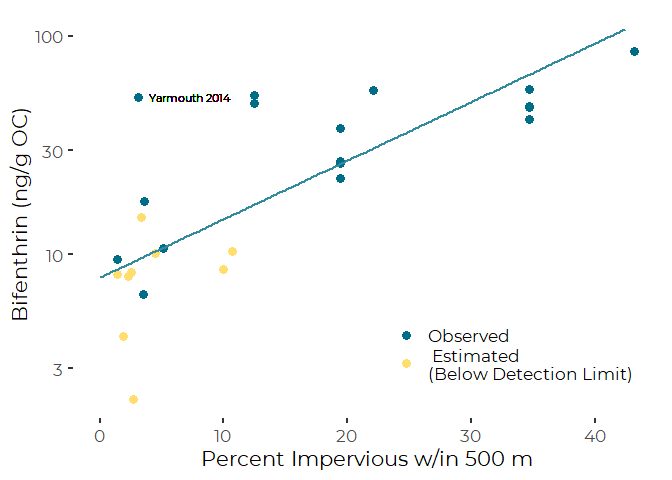
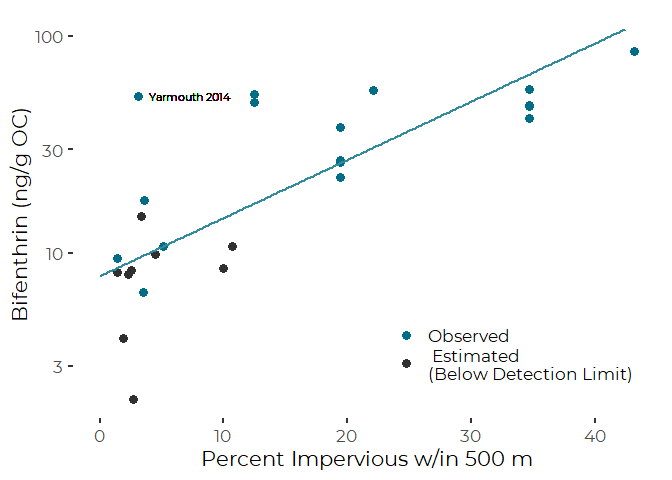
Change color of "non-detects" in graphics

diff --git a/Graphics/Pesticide_Graphics.md b/Graphics/Pesticide_Graphics.md
@@ -3,25 +3,25 @@ Prepare Sediment Bifenthrin Graphics
 Curtis C. Bohlen, Casco Bay Estuary Partnership.
 Revised October 13, 2020
 
-  - [Introduction](#introduction)
-  - [Load Libraries](#load-libraries)
-  - [Load Data](#load-data)
-      - [Folder References](#folder-references)
-      - [Load IC Data](#load-ic-data)
-      - [Load Pyrethroid Concentration
+-   [Introduction](#introduction)
+-   [Load Libraries](#load-libraries)
+-   [Load Data](#load-data)
+    -   [Folder References](#folder-references)
+    -   [Load IC Data](#load-ic-data)
+    -   [Load Pyrethroid Concentration
         Data](#load-pyrethroid-concentration-data)
-  - [Import IC metrics into
+-   [Import IC metrics into
     conc\_data](#import-ic-metrics-into-conc_data)
-  - [Principal Graphics](#principal-graphics)
-      - [Initial Graphic with Log-linear
+-   [Principal Graphics](#principal-graphics)
+    -   [Initial Graphic with Log-linear
         Model](#initial-graphic-with-log-linear-model)
-      - [Related Linear Models](#related-linear-models)
-          - [Linear Model](#linear-model)
-          - [Theil-Sen Resistent
+    -   [Related Linear Models](#related-linear-models)
+        -   [Linear Model](#linear-model)
+        -   [Theil-Sen Resistent
             Regression](#theil-sen-resistent-regression)
-          - [Showing the Resistant
+        -   [Showing the Resistant
             Regression](#showing-the-resistant-regression)
-  - [Concentrations on an Organic Carbon
+-   [Concentrations on an Organic Carbon
     Basis](#concentrations-on-an-organic-carbon-basis)
 
 <img
@@ -51,14 +51,22 @@ impervious surfaces (as a rough measure of urbanization).
 library(tidyverse)
 ```
 
-    ## -- Attaching packages ----------------------------------------------------------------------------------- tidyverse 1.3.0 --
+    ## Warning: package 'tidyverse' was built under R version 4.0.5
 
-    ## v ggplot2 3.3.2     v purrr   0.3.4
-    ## v tibble  3.0.3     v dplyr   1.0.2
-    ## v tidyr   1.1.2     v stringr 1.4.0
-    ## v readr   1.3.1     v forcats 0.5.0
+    ## -- Attaching packages --------------------------------------- tidyverse 1.3.1 --
 
-    ## -- Conflicts -------------------------------------------------------------------------------------- tidyverse_conflicts() --
+    ## v ggplot2 3.3.3     v purrr   0.3.4
+    ## v tibble  3.1.2     v dplyr   1.0.6
+    ## v tidyr   1.1.3     v stringr 1.4.0
+    ## v readr   1.4.0     v forcats 0.5.1
+
+    ## Warning: package 'tidyr' was built under R version 4.0.5
+
+    ## Warning: package 'dplyr' was built under R version 4.0.5
+
+    ## Warning: package 'forcats' was built under R version 4.0.5
+
+    ## -- Conflicts ------------------------------------------ tidyverse_conflicts() --
     ## x dplyr::filter() masks stats::filter()
     ## x dplyr::lag()    masks stats::lag()
 
@@ -173,7 +181,7 @@ ggsave('BifenthrinWW.pdf', device = cairo_pdf, width = 7, height = 5)
     ## `geom_smooth()` using formula 'y ~ x'
 
     ## Warning: Removed 4 rows containing non-finite values (stat_smooth).
-    
+
     ## Warning: Removed 4 rows containing missing values (geom_point).
 
 ## Related Linear Models
@@ -198,19 +206,19 @@ summary(the_lm)
     ## 
     ## Residuals:
     ##      Min       1Q   Median       3Q      Max 
-    ## -0.52071 -0.23908 -0.02186  0.16580  1.10061 
+    ## -0.50209 -0.24093 -0.02212  0.16717  1.10220 
     ## 
     ## Coefficients:
     ##              Estimate Std. Error t value Pr(>|t|)    
-    ## (Intercept) -1.451785   0.097796 -14.845 1.36e-13 ***
-    ## pct500       0.032052   0.005165   6.206 2.06e-06 ***
+    ## (Intercept) -1.453613   0.097844 -14.856 1.34e-13 ***
+    ## pct500       0.032130   0.005167   6.218 2.00e-06 ***
     ## ---
     ## Signif. codes:  0 '***' 0.001 '**' 0.01 '*' 0.05 '.' 0.1 ' ' 1
     ## 
-    ## Residual standard error: 0.3372 on 24 degrees of freedom
+    ## Residual standard error: 0.3374 on 24 degrees of freedom
     ##   (4 observations deleted due to missingness)
-    ## Multiple R-squared:  0.6161, Adjusted R-squared:  0.6001 
-    ## F-statistic: 38.51 on 1 and 24 DF,  p-value: 2.058e-06
+    ## Multiple R-squared:  0.617,  Adjusted R-squared:  0.601 
+    ## F-statistic: 38.66 on 1 and 24 DF,  p-value: 1.999e-06
 
 ### Theil-Sen Resistent Regression
 
@@ -252,16 +260,16 @@ summary(the_mblm)
     ## 
     ## Residuals:
     ##      Min       1Q   Median       3Q      Max 
-    ## -1.53120 -0.87485 -0.40064  0.05394  2.20897 
+    ## -1.49063 -0.88305 -0.40064  0.05394  2.20897 
     ## 
     ## Coefficients:
     ##             Estimate      MAD V value Pr(>|V|)    
-    ## (Intercept) -3.02041  0.15766       0  8.8e-06 ***
-    ## pct500       0.07472  0.01640     347  1.4e-05 ***
+    ## (Intercept) -3.02041  0.15766       0 8.79e-06 ***
+    ## pct500       0.07472  0.01641     348 1.25e-05 ***
     ## ---
     ## Signif. codes:  0 '***' 0.001 '**' 0.01 '*' 0.05 '.' 0.1 ' ' 1
     ## 
-    ## Residual standard error: 0.8513 on 24 degrees of freedom
+    ## Residual standard error: 0.8523 on 24 degrees of freedom
 
 ``` r
 cor.test(tmp$pct500,tmp$log_bifenthrin, method = 'kendall')
@@ -274,11 +282,11 @@ cor.test(tmp$pct500,tmp$log_bifenthrin, method = 'kendall')
     ##  Kendall's rank correlation tau
     ## 
     ## data:  tmp$pct500 and tmp$log_bifenthrin
-    ## z = 4.3658, p-value = 1.267e-05
+    ## z = 4.6317, p-value = 3.626e-06
     ## alternative hypothesis: true tau is not equal to 0
     ## sample estimates:
     ##       tau 
-    ## 0.6225269
+    ## 0.6604473
 
 We create a dataframe to pass to ggplot to generate the regression line
 in our plot
@@ -305,7 +313,7 @@ plt <- ggplot(tmp, aes(pct500, Bifenthrin_ML)) +
   theme_cbep() +
   theme(legend.position=c(0.75, 0.2)) +
   
-  scale_color_manual(values = cbep_colors(), name = '',
+  scale_color_manual(values = cbep_colors()[c(1,3)], name = '',
                      labels = c('Observed', ' Estimated\n(Below Detection Limit)')) +
   scale_y_log10() +
   
@@ -346,16 +354,16 @@ summary(the_mblm)
     ## 
     ## Residuals:
     ##      Min       1Q   Median       3Q      Max 
-    ## -1.45609 -0.34276 -0.07628  0.30884  1.71294 
+    ## -1.48013 -0.34096 -0.07244  0.31063  1.71474 
     ## 
     ## Coefficients:
     ##             Estimate     MAD V value Pr(>|V|)    
-    ## (Intercept)  2.05700 0.17470     351 2.98e-08 ***
-    ## pct500       0.06177 0.01463     350 5.96e-08 ***
+    ## (Intercept)  2.05520 0.17771     351 2.98e-08 ***
+    ## pct500       0.06177 0.01462     350 5.96e-08 ***
     ## ---
     ## Signif. codes:  0 '***' 0.001 '**' 0.01 '*' 0.05 '.' 0.1 ' ' 1
     ## 
-    ## Residual standard error: 0.6559 on 24 degrees of freedom
+    ## Residual standard error: 0.6594 on 24 degrees of freedom
 
 ``` r
 cor.test(tmp$pct500,tmp$log_bifenthrin_oc, method = 'kendall')
@@ -368,11 +376,11 @@ cor.test(tmp$pct500,tmp$log_bifenthrin_oc, method = 'kendall')
     ##  Kendall's rank correlation tau
     ## 
     ## data:  tmp$pct500 and tmp$log_bifenthrin_oc
-    ## z = 4.2741, p-value = 1.919e-05
+    ## z = 4.3184, p-value = 1.571e-05
     ## alternative hypothesis: true tau is not equal to 0
     ## sample estimates:
     ##       tau 
-    ## 0.6070653
+    ## 0.6133562
 
 We again create a dataframe.
 
@@ -396,7 +404,7 @@ plt <- ggplot(conc_data, aes(pct500, Bifenthrin_OC_QML)) +
   theme_cbep() +
   theme(legend.position=c(0.75, 0.2)) +
   
-  scale_color_manual(values = cbep_colors(), name = '',
+  scale_color_manual(values = cbep_colors()[c(1,3)], name = '',
                      labels = c('Observed', ' Estimated\n(Below Detection Limit)')) +
   scale_y_log10() +
   
